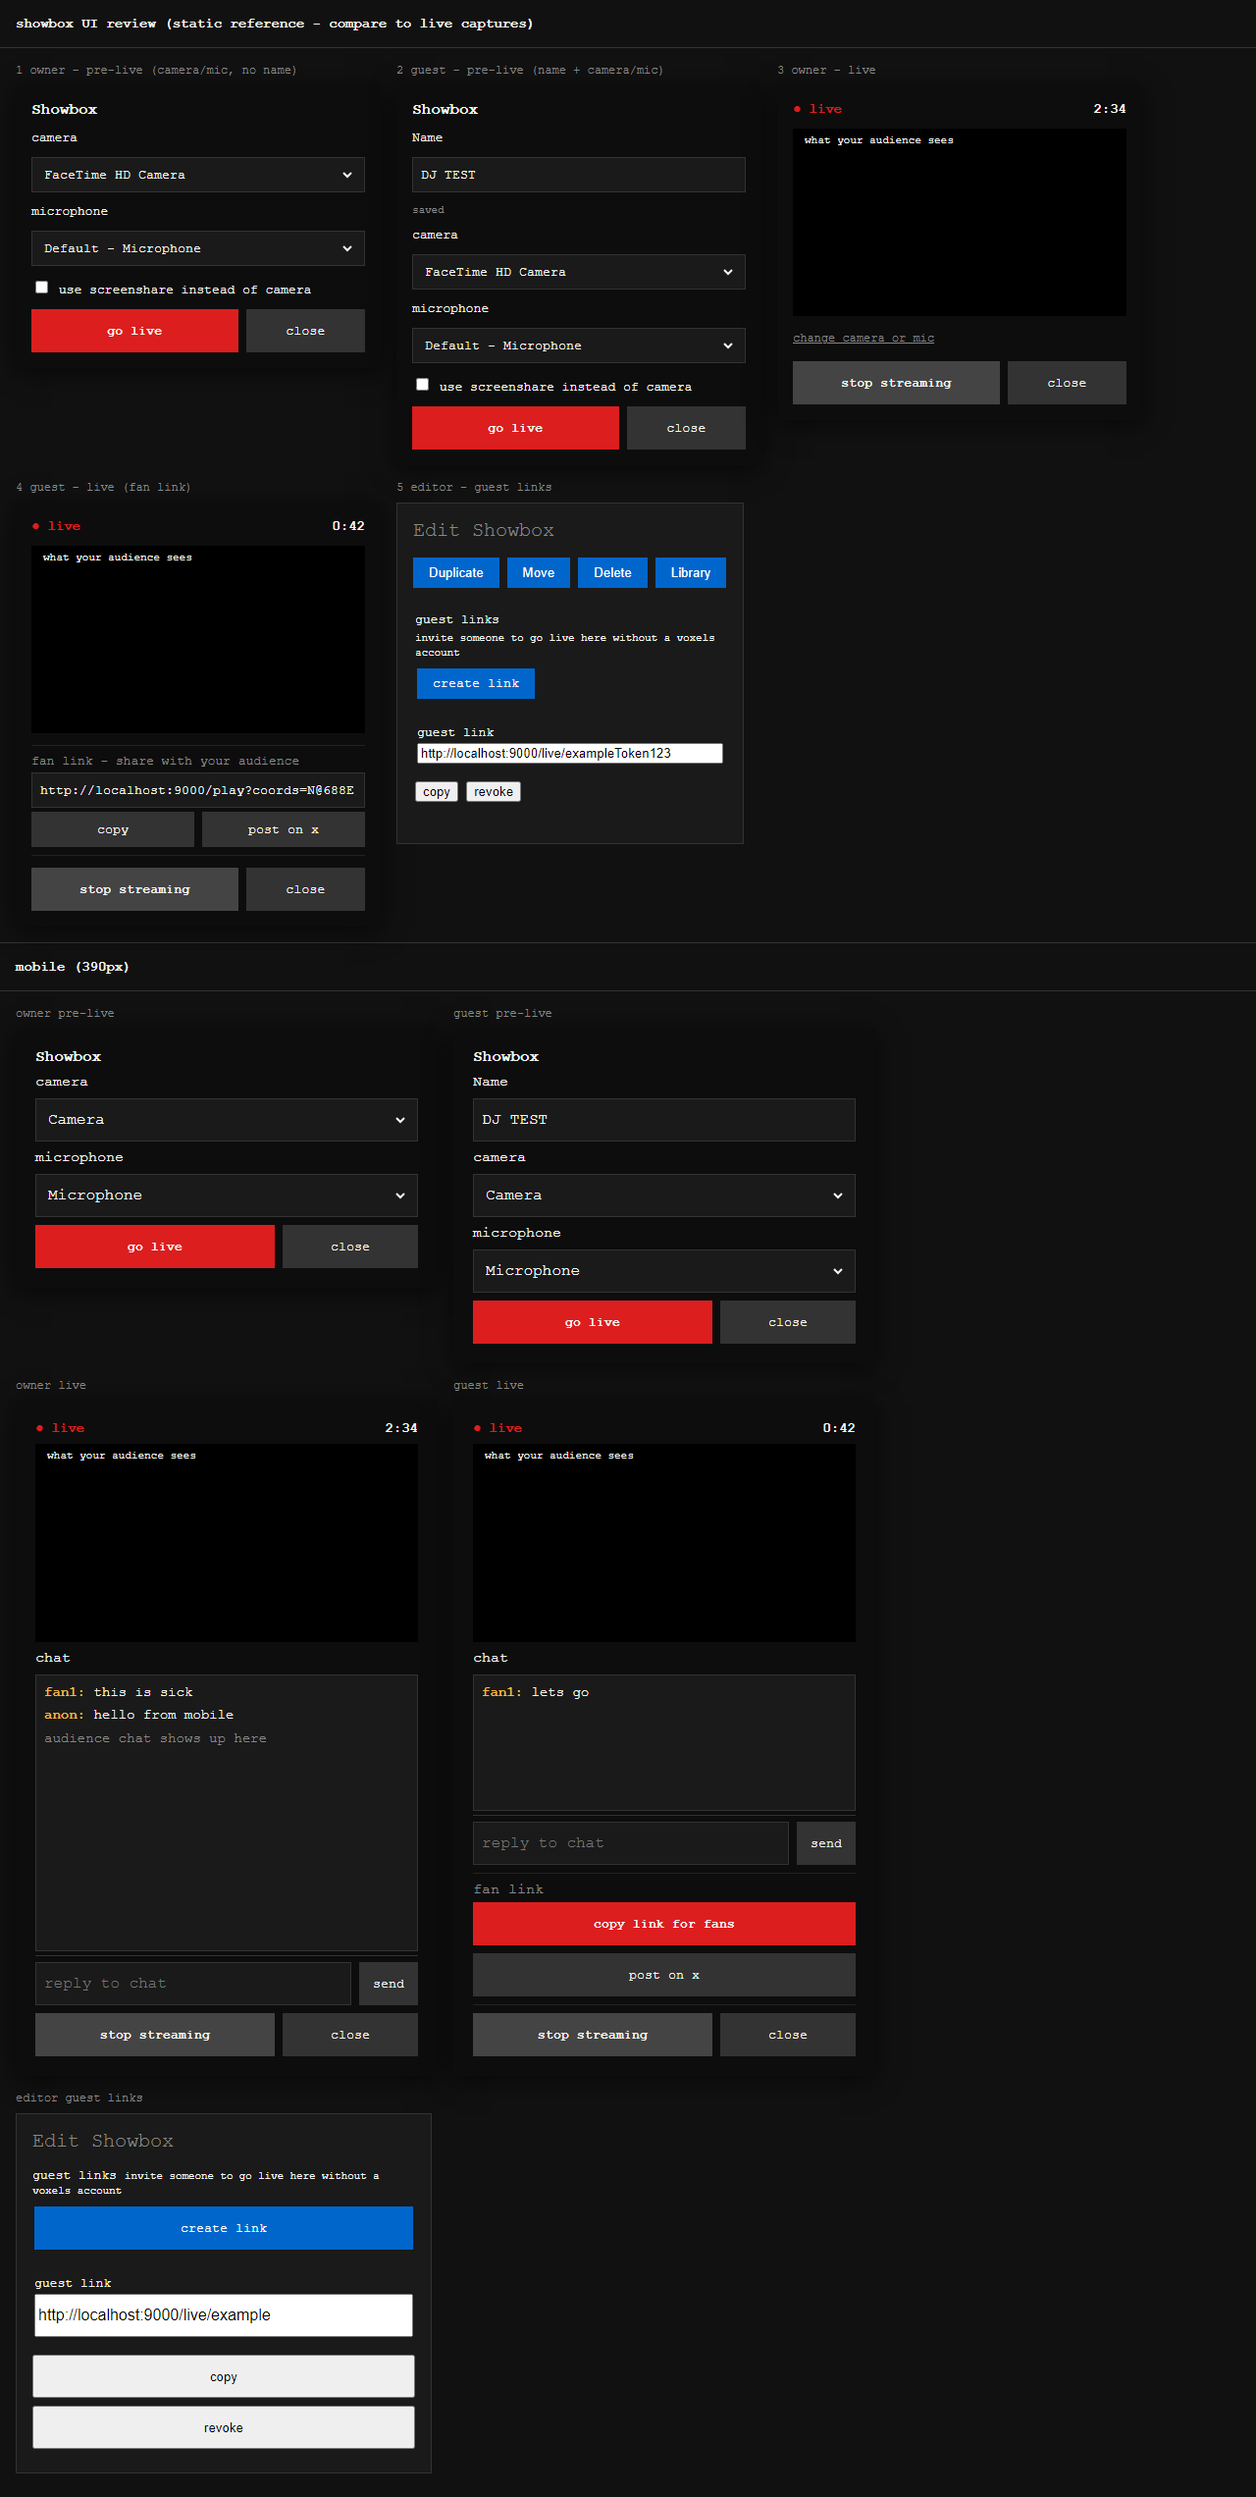
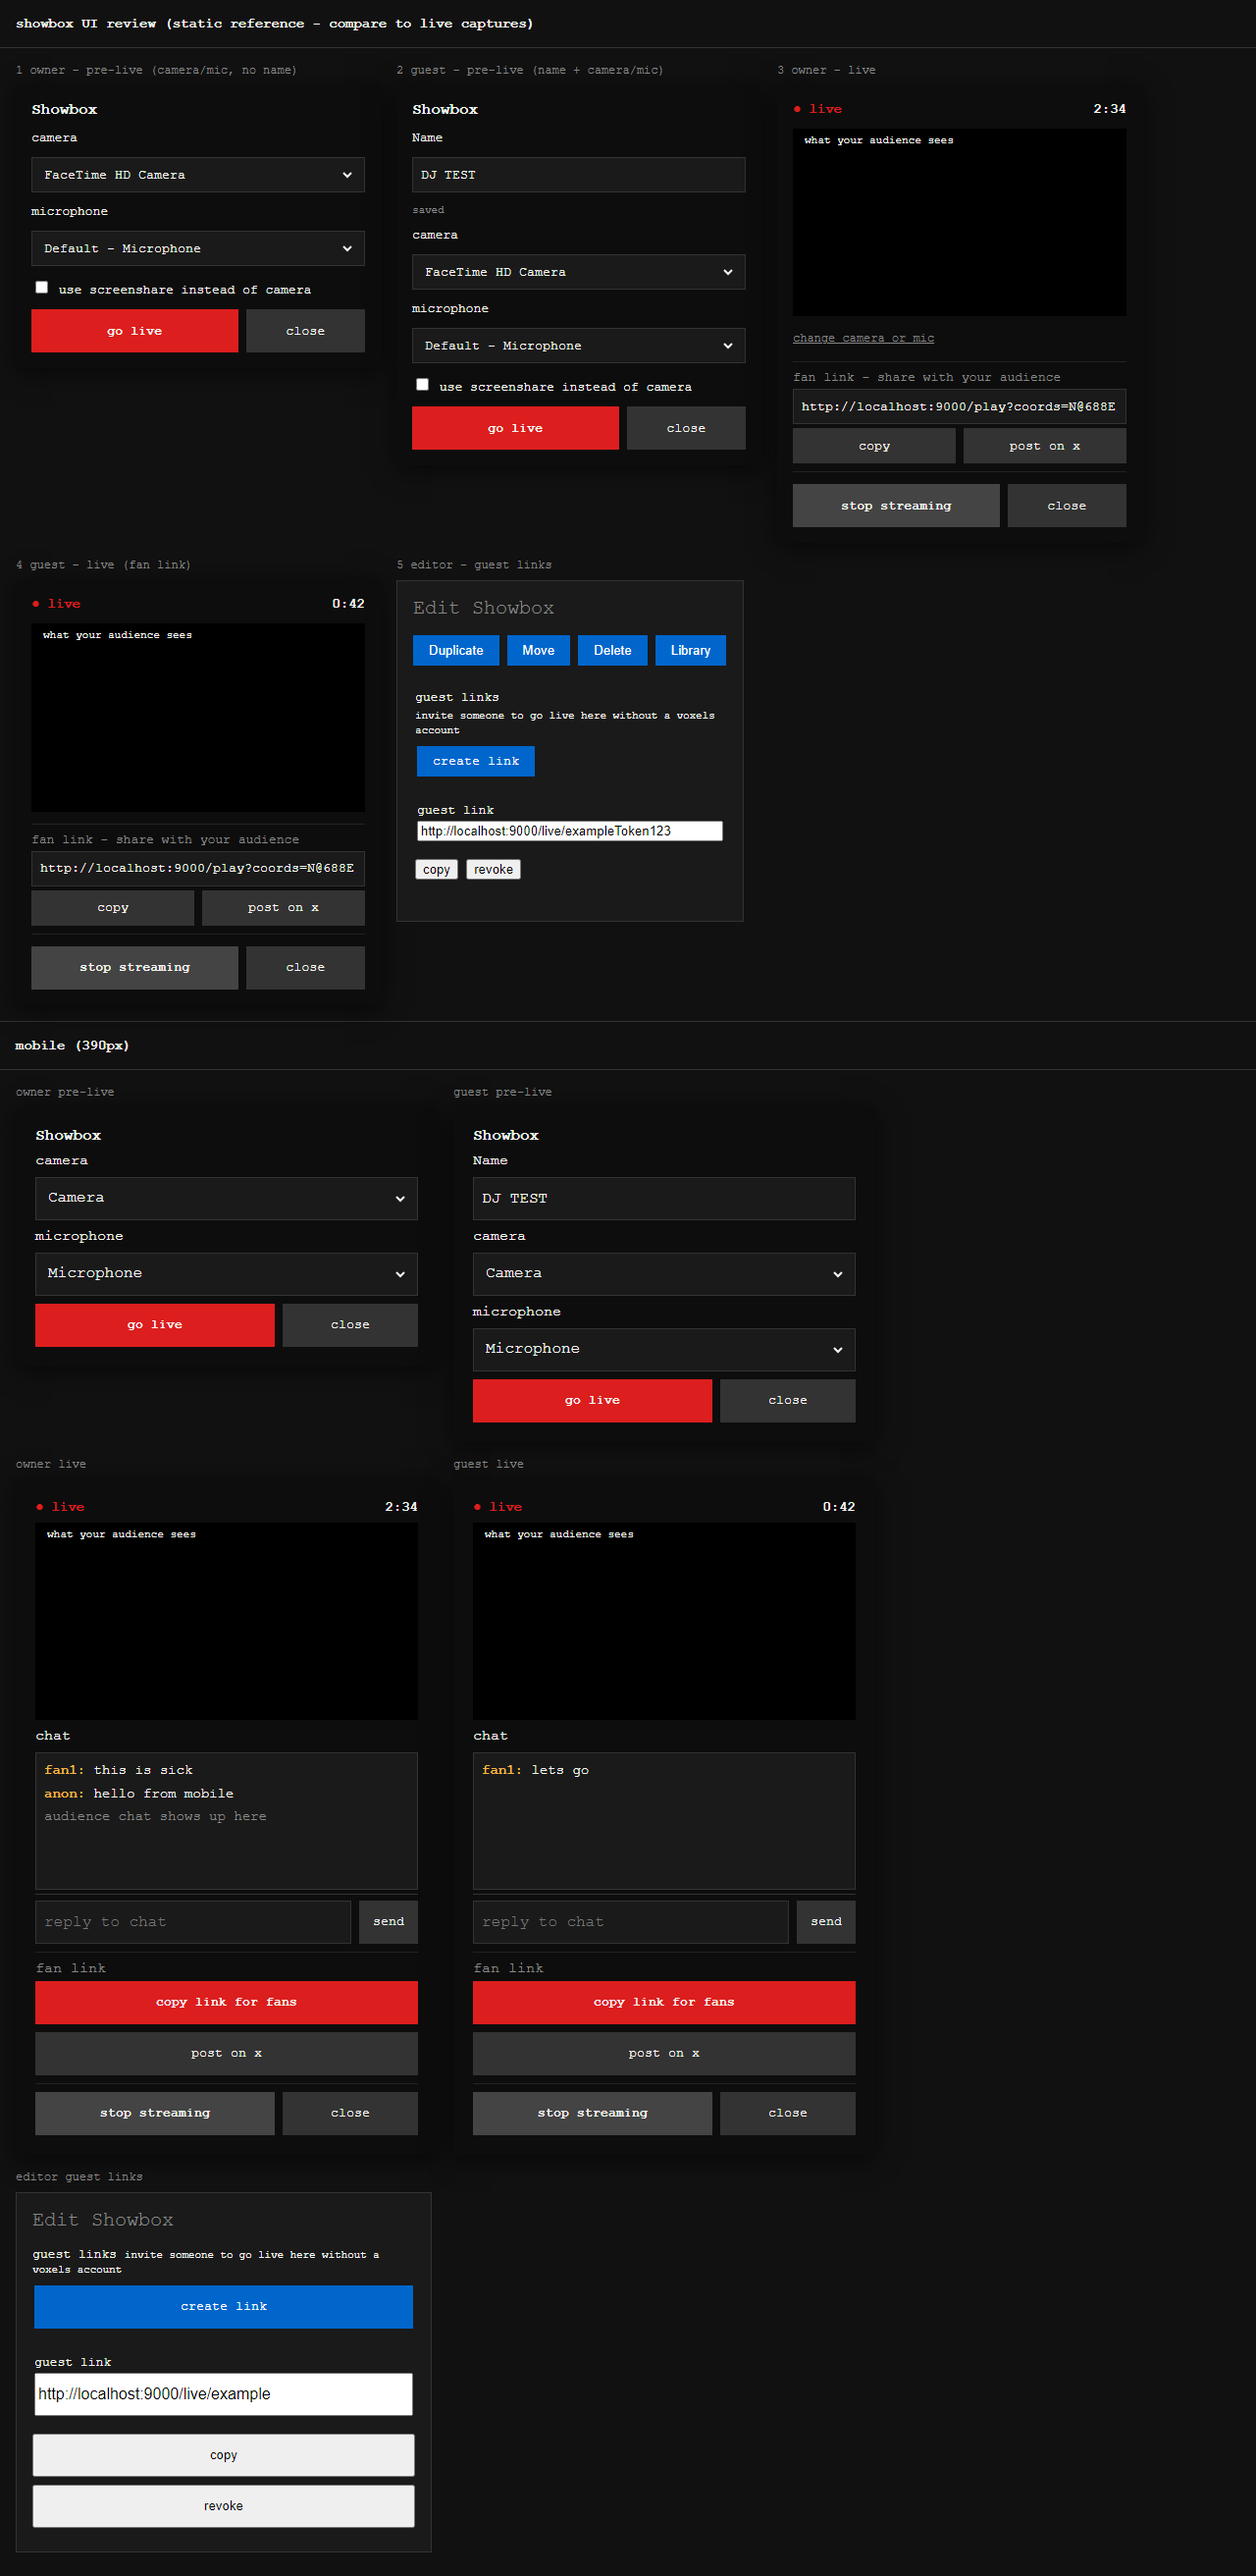
show fan link on owner live dock too

diff --git a/src/features/showbox.tsx b/src/features/showbox.tsx
@@ -644,9 +644,9 @@ export default class Showbox extends Feature2D<ShowboxRecord> {
       identityRow.append(identityLabel, nameInput, nameStatus)
     }
 
-    // Fan coords link only for guests going live - owners use editor guest /live/ links instead.
+    // Fan coords link for anyone live - drops audience at the showbox in world.
     let shareRow: HTMLDivElement | null = null
-    if (isGuest) {
+    {
       const showUrl = audienceShowUrl(this)
       shareRow = document.createElement('div')
       Object.assign(shareRow.style, { display: 'none', flexDirection: 'column', gap: '4px', borderTop: '1px solid #222', borderBottom: '1px solid #222', padding: '8px 0' })
